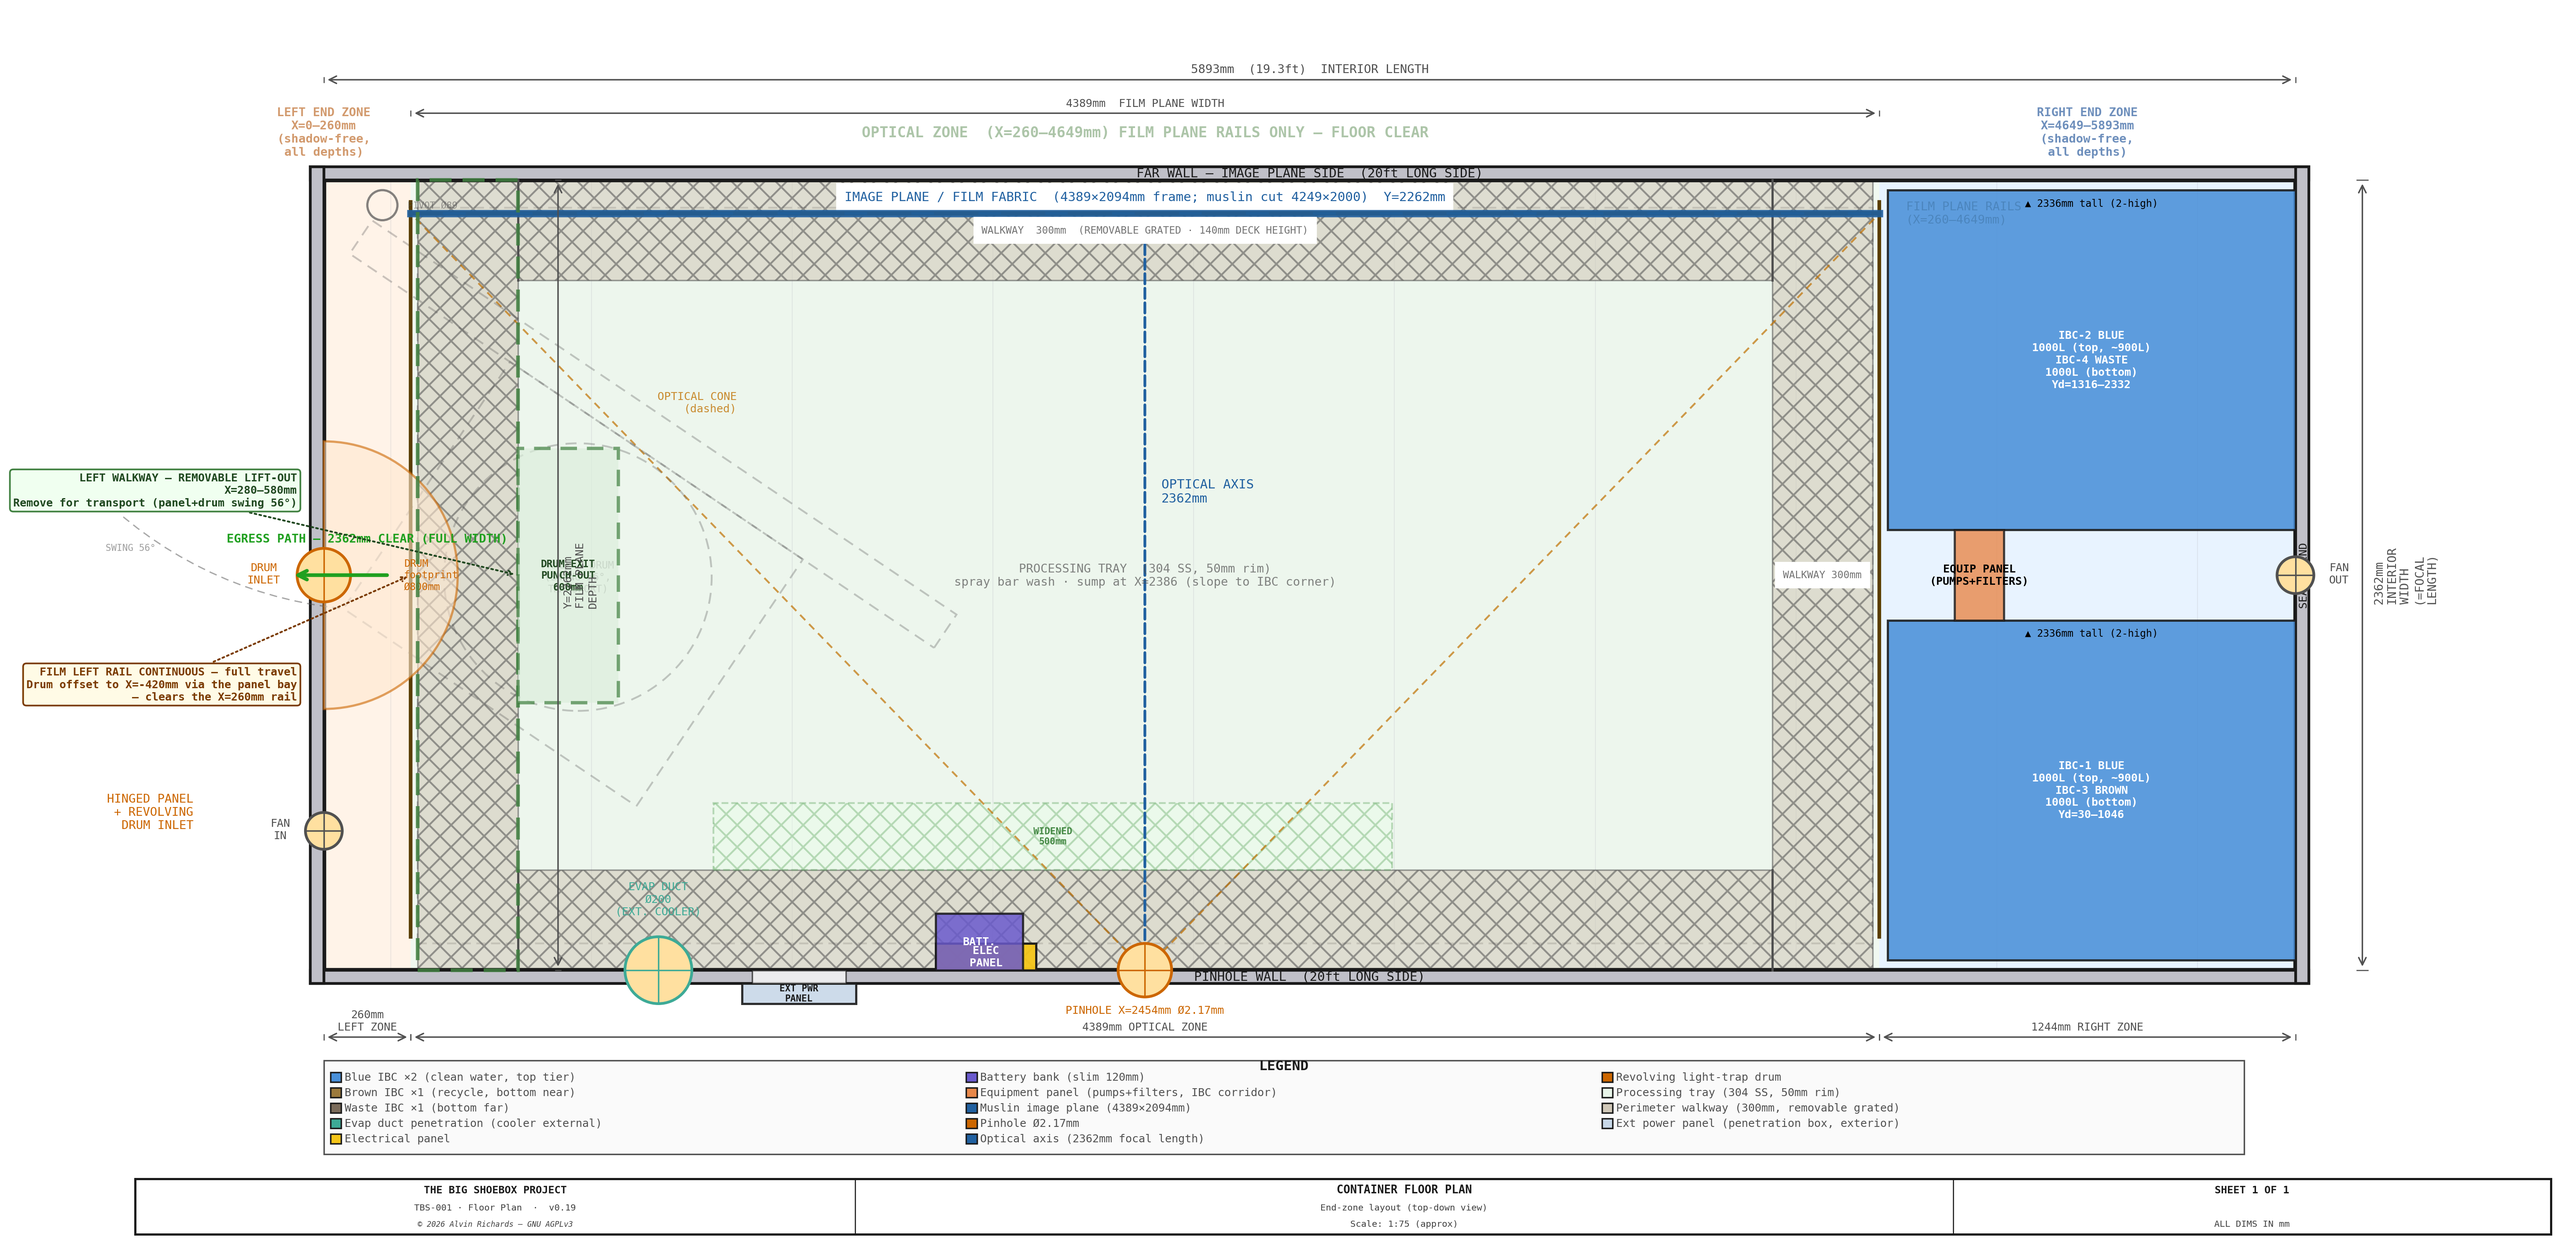
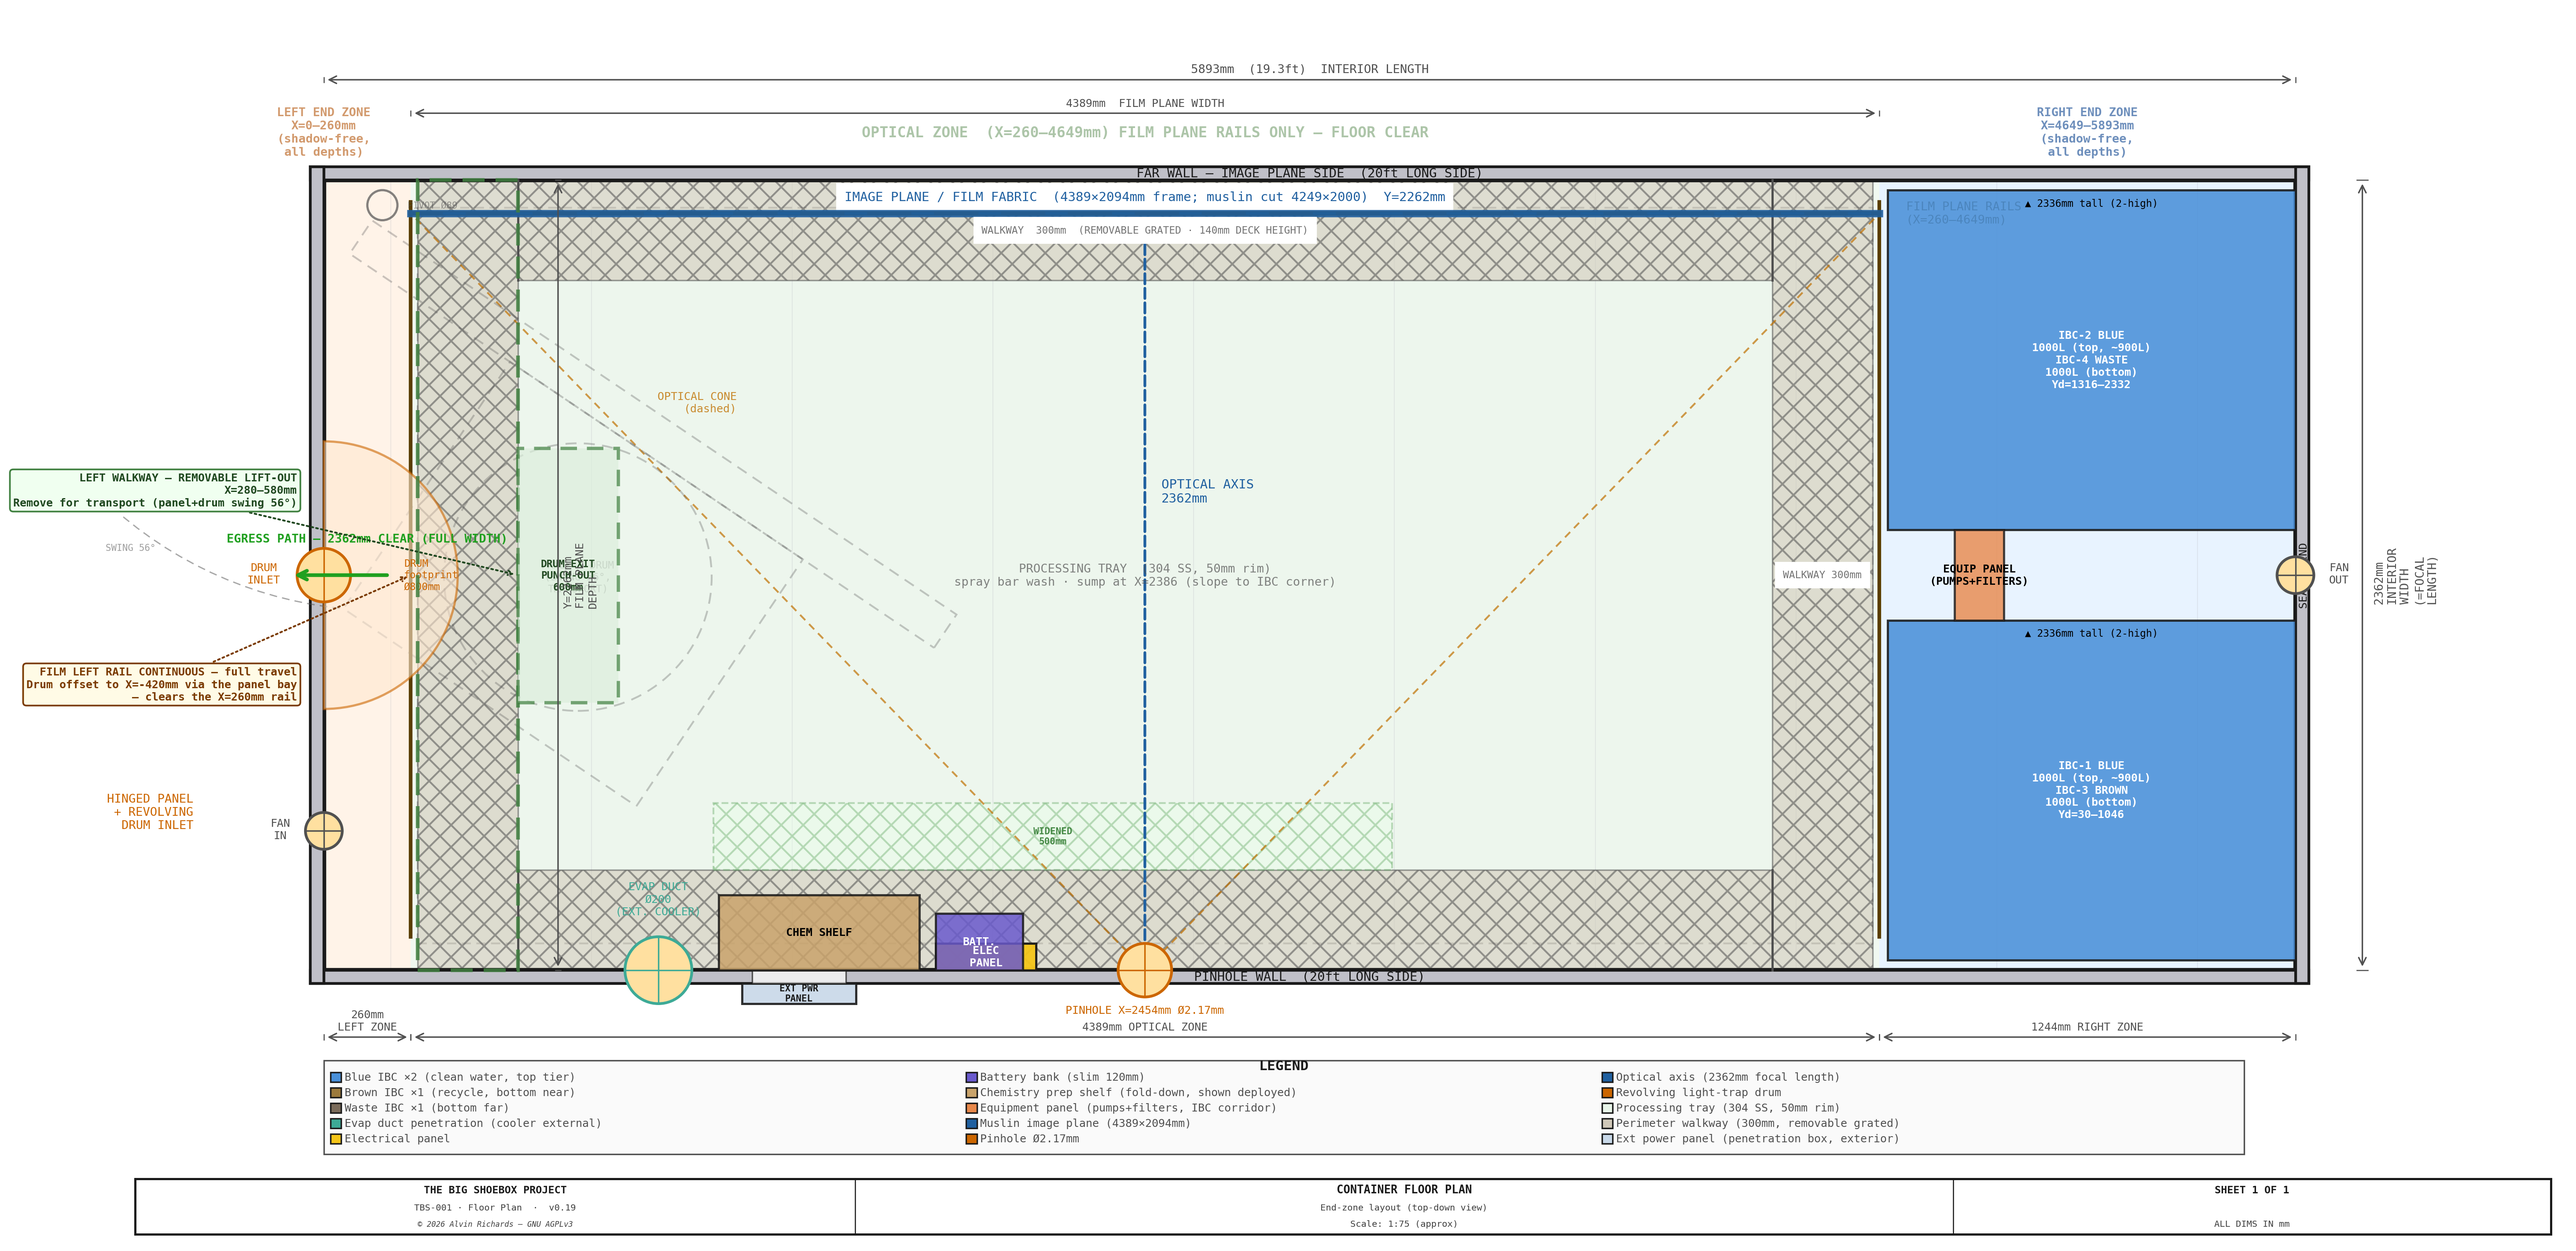
Line-of-sight: red only when in the cone in both views, tray exempt (no stray IN CONE); floor plan draws the chemistry prep shelf

Changed region(s): [[0.3731, 0.8667, 0.4975, 0.9286], [0.6219, 0.8667, 0.7152, 0.9286], [0.2799, 0.7119, 0.3731, 0.7738]]

diff --git a/src/generators/generate_floorplan_diagram.py b/src/generators/generate_floorplan_diagram.py
@@ -196,8 +196,6 @@ def floor_plan():
                 label=f"EVAP DUCT\nØ{EVAP_DUCT_D}\n(EXT. COOLER)",
                 label_offset=(0, EVAP_DUCT_D / 2 + 60))
 
-    # (waste drums and dolly tracks eliminated in rev 5 — left zone now light trap only)
-
     # ── PINHOLE WALL (Y=0 face) — wall-mounted items ──────────────────────────
     # Electrical panel (thin strip at Y=0) — Z=1500–2100 (rev11: dropped 150 for brace-beam clearance)
     equip_rect(ax, EP_X, 0, EP_W, 80, C_ELEC,
@@ -205,6 +203,9 @@ def floor_plan():
     # Battery bank (slim profile, 120mm depth)
     equip_rect(ax, BA_X, 0, BA_W, BA_D, C_BATT,
                "BATT.", zorder=7, alpha=0.85)
+    # Chemistry prep shelf — fold-down, drawn deployed (stowed it is flat against the wall)
+    equip_rect(ax, SHELF_X_L, SHELF_YD_NEAR, SHELF_W, SHELF_DEPTH, C_WOOD,
+               "CHEM SHELF", label_color="#000000", zorder=7, alpha=0.85)
 
     # ── EQUIPMENT PANEL (IBC plumbing corridor, Yd=1046) ────────────────────
     equip_rect(ax, EQPANEL_X, CORRIDOR_YD_NEAR, EQPANEL_W, CORRIDOR_W,
@@ -442,6 +443,7 @@ def floor_plan():
         (C_EVAP,    "Evap duct penetration (cooler external)"),
         (C_ELEC,  "Electrical panel"),
         (C_BATT,  "Battery bank (slim 120mm)"),
+        (C_WOOD,  "Chemistry prep shelf (fold-down, shown deployed)"),
         (C_PUMP,  "Equipment panel (pumps+filters, IBC corridor)"),
         (C_FILM,      f"Muslin image plane ({FP_W}×{FP_H}mm)"),
         (C_PINHOLE,   f"Pinhole Ø{PH_D}mm"),

diff --git a/src/generators/generate_line_of_sight.py b/src/generators/generate_line_of_sight.py
@@ -240,7 +240,7 @@ ax.text(PH_X + 80, FP_Y / 2 + 400, "Optical axis",
 
 # ── Equipment footprints ──────────────────────────────────────────────────────
 for eq in EQUIPMENT:
-    in_cone = equipment_in_plan_cone(eq)
+    in_cone = equipment_in_plan_cone(eq) and not eq.get("skip_cone_check")   # floor-level: under the cone
     edge_color = C_BLOCK if in_cone else C_CLEAR
     edge_lw = 2.2 if in_cone else 1.4
     alpha = 0.75 if in_cone else 0.55
@@ -332,7 +332,9 @@ ax.text(FP_Y / 2 + 600, PH_H + 55, "Optical axis",
 # ── Equipment in elevation ────────────────────────────────────────────────────
 # For overlapping drums in X (same Yd range), offset slightly so labels visible
 for eq in EQUIPMENT:
-    in_cone_h = equipment_in_elevation_cone(eq)
+    # An item shadows the film only if it is inside the cone in BOTH views; height alone isn't a clash.
+    in_cone_h = (equipment_in_elevation_cone(eq) and equipment_in_plan_cone(eq)
+                 and not eq.get("skip_cone_check"))
     edge_color = C_BLOCK if in_cone_h else C_CLEAR
     edge_lw = 2.2 if in_cone_h else 1.4
 

diff --git a/docs/editorial-review-todo.md b/docs/editorial-review-todo.md
@@ -46,7 +46,7 @@ are kept after each entry.
 - [x] project-cost-breakdown.md  — what/why pass 2026-11-20, confirmed complete (owner): §12 "Research Gaps" to-do list → §12 Cost Confidence (stale rows dropped: tube saddle clamps, ball-lock pins, Grimco ACM, 8-saddle count); §4 saddle anchoring corrected (4 saddles + 2 pivot-post plates + 2 shared BR plates); §4 tilt/swing placeholders; §6/§6a broken sentences fixed; §7.2 per-print table generated from costing.py (was AmFe $75 → $21, rows didn't sum); §7.1 AmFe 260–780 g → 222–668 g; summary line-7 note de-archaeologized (hand-keyed $1,250/$1,710/$3,100 drifted from the generated $1,230/$1,680/$3,040). Cleanup 2026-11-20: hand-typed $ outside generated blocks 171 → 71 (remaining are single-home sourced research quotes); §2 hand tables → registry link; §3.2 lens table → Lens Options pointer; optional additions, §9.1 CDL table, §10 running costs generated; repeated quotes (delivery, trailer, CDL, permits, lens) single-sourced in costing.py; fixed CDL all-in $4,345 → $4,245 and per-print running $71 → $42 (muslin was ~$43/print, is $6). Prior pass: confirmed complete (owner). Verified it is a section/subsystem cost rollup (not a part-by-part BOM) — same totals as the master BOM, every major component named, no SKU/supplier/qty; decided it is the brochure PDF's parts/cost coverage (the itemized BOM stays web-only).
 
 ### Construction — Equipment & Water
-- [ ] equipment-layout-report.md  — IN PROGRESS: what/why pass 2026-11-20 (awaiting owner review): zone X ranges + transport swing → fact placeholders; chemistry prep shelf added to the pinhole-wall zone (it sits in the optical X span, clear of the cone near the wall — the report said the optical zone held only rails/tray/walkway); "Reducing the film plane…" → stated as the design; "New Layout" alt text and the "600L tote does not exist" aside cut; sources corrected (pumps → Plumbing Report) + shelf source. Line-of-sight diagram now draws the shelf (clear of the cone); open: floor plan doesn't.
+- [ ] equipment-layout-report.md  — IN PROGRESS: what/why pass 2026-11-20 (awaiting owner review): zone X ranges + transport swing → fact placeholders; chemistry prep shelf added to the pinhole-wall zone (it sits in the optical X span, clear of the cone near the wall — the report said the optical zone held only rails/tray/walkway); "Reducing the film plane…" → stated as the design; "New Layout" alt text and the "600L tote does not exist" aside cut; sources corrected (pumps → Plumbing Report) + shelf source. Line-of-sight + floor plan diagrams now draw the shelf.
 - [ ] water-system-report.md
 - [ ] plumbing-report.md
 - [ ] walkway-routing-sections.md

diff --git a/RELEASE.md b/RELEASE.md
@@ -26,7 +26,7 @@ is no separate publish step to run afterward.
 
 ## [Unreleased]
 
-- **Line-of-sight diagram draws the chemistry prep shelf** (deployed, on the pinhole wall) and runs it through the same cone check — clear in plan by ~456 mm.
+- **Line-of-sight and floor-plan diagrams draw the chemistry prep shelf** (deployed, on the pinhole wall); line-of-sight runs it through the same cone check — clear in plan by ~456 mm. Line-of-sight also stops showing false red borders: the elevation colors an item red only when it is inside the cone in both views, and the floor-level tray (under the cone by design) no longer reads as a clash or prints a stray "IN CONE" label.
 - **Equipment Layout: what/why pass.** Zone boundaries and the transport swing are fact placeholders; the chemistry prep shelf is listed in the pinhole-wall zone (clear of the cone); history asides cut; sources point pumps to the Plumbing Report.
 - **Editorial review checks for design-history language.** `style_lint.py` gains a `hist` column (retired / replaced by / formerly / no longer / "now lives" / "(was X)"), and the Track 1 criteria name it explicitly: a report describes the current design, not how it got there (skill §D). All hits rewritten to state the current design (32 across 25 docs, now 0): e.g. the pinhole report's "former Ø600 plate was retired" note, the right-walkway cantilever study recast as design rationale (cantilever vs ceiling-hung, its implementation log removed), film-clamp, plywood, tray-beam, corner-plate and IBC bracket asides. "No longer UV-sensitive"-type physical statements are exempt.
 - **Cost breakdown §9 now sums its own lines.** The "Licenses & permits" summary row was a fixed $220 / $790 / $1,620 that matched none of its subsections; it is now computed in `costing.py` from the location permit, business license and misc. lines, with the one-time CDL in the High column only (the baseline is commercial hire, which needs no CDL) → $10 / $300 / $7,320. §9.3 is the section-total table; CDL leaves the optional-additions table (no double count). Grand total $27,640 / $32,229 / $45,318. Scenario C's CDL line, a hand-typed $4,500, now uses the same CDL figure as §9 High ($6,570).

diff --git a/docs/TODO.md b/docs/TODO.md
@@ -19,7 +19,7 @@ outstanding work, not a history log). Detailed sub-trackers are linked where the
 
 ## 📐 Layout diagrams
 
-- [ ] `container-floorplan.png` doesn't draw (`line-of-sight.png` done 2026-11-20) the fold-down chemistry prep shelf on the pinhole wall (X≤1,780, Yd≤225 deployed); the Equipment Layout report now lists it in that zone. Needs a generator change (ask first).
+- [x] `container-floorplan.png` + `line-of-sight.png` draw the fold-down chemistry prep shelf on the pinhole wall (X≤1,780, Yd≤225 deployed); the Equipment Layout report now lists it in that zone. Needs a generator change (ask first).
 
 ## 🧪 Wash-water classification — open checks (2026-11-20)
 
